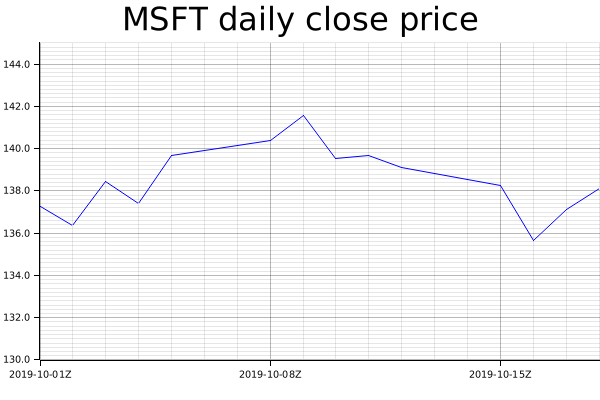
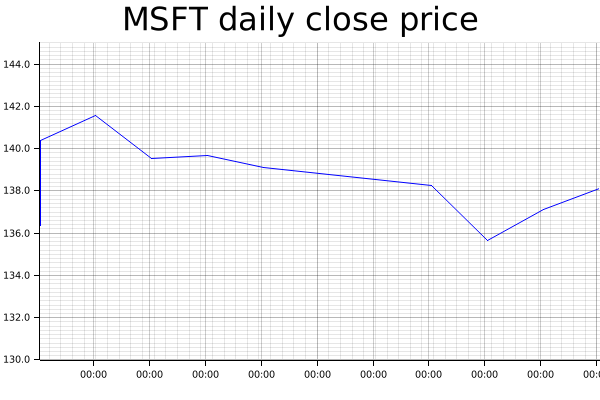
save

diff --git a/examples/plotters_5_x_label_formatter.rs b/examples/plotters_5_x_label_formatter.rs
@@ -1,0 +1,65 @@
+// FROM HERE
+// https://stackoverflow.com/questions/65937447/how-to-plot-a-series-with-a-date-on-the-x-axis-and-time-on-the-y-axis
+
+// #![feature(allocator_api)]
+
+use chrono::{Date, Duration, ParseError, NaiveTime};
+use chrono::offset::{Local, TimeZone};
+use plotters::prelude::*;
+
+fn parse_datetime(t: &str) -> Date<Local> {
+    Local
+        .datetime_from_str(&format!("{} 0:0", t), "%Y-%m-%d %H:%M")
+        .unwrap()
+        .date()
+}
+
+fn parse_time(t: &str) -> Result<Duration, ParseError> {
+    return match Local.datetime_from_str(&format!("2020-01-01 0:{}", t), "%Y-%m-%d %H:%M:%S%.f") {
+        Ok(date) => Ok(date.time().signed_duration_since(NaiveTime::from_hms(0, 0, 0))),
+        Err(e) => { println!("{}", e); Err(e) },
+    };
+}
+
+fn main() -> Result<(), Box<dyn std::error::Error>> {
+    let data = get_data();
+    let root = BitMapBackend::new("images/stock-example.png", (1024, 768)).into_drawing_area();
+    root.fill(&WHITE)?;
+
+    let (from_date, to_date) = (
+        parse_datetime(&data[0].0) - Duration::days(1),
+        parse_datetime(&data[data.len() - 1].0) + Duration::days(1),
+    );
+
+    let y_min = parse_time("9:30.0").unwrap();
+    let y_max = parse_time("13:00.0").unwrap();
+
+    let mut chart = ChartBuilder::on(&root)
+        .x_label_area_size(40)
+        .y_label_area_size(50)
+        .caption("Time", ("sans-serif", 30.0).into_font())
+        .build_cartesian_2d(from_date..to_date, y_min..y_max)?;
+
+    chart.configure_mesh()
+        .light_line_style(&WHITE)
+        .y_label_formatter(&|y| format!("{:02}:{:02}", y.num_minutes(), y.num_seconds() % 60))
+        .x_label_formatter(&|x| x.naive_local().to_string())
+        .draw()?;
+
+    chart.draw_series(
+        data.iter()
+            .map(|x| Circle::new((parse_datetime(x.0), parse_time(x.1).unwrap()), 5, BLUE.filled())),
+    )?;
+
+    Ok(())
+}
+
+fn get_data() -> Vec<(&'static str, &'static str, f32, f32, f32)> {
+    return vec![
+        ("2019-04-18", "10:11.5", 16.0, 121.3018, 123.3700),
+        ("2019-04-22", "10:52.2", 15.0, 122.5700, 123.7600),
+        ("2019-04-23", "12:23.5", 14.0, 123.8300, 125.4400),
+        ("2019-04-24", "10:15.0", 13.0, 124.5200, 125.0100),
+        ("2019-04-25", "10:43.9", 12.0, 128.8300, 129.1500),
+    ];
+}

diff --git a/examples/plotters_4_date_x_axis_second.rs b/examples/plotters_4_date_x_axis_second.rs
@@ -2,15 +2,26 @@
 // https://stackoverflow.com/questions/65975521/plotter-only-plot-the-time-not-the-date
 
 use plotters::prelude::*;
-use chrono::{Utc, TimeZone};
+// use chrono::{Utc, TimeZone};
+// use chrono::offset;
+
+use chrono::{Date, Duration, ParseError, NaiveTime};
+use chrono::offset::{Utc,Local, TimeZone};
+use chrono::Timelike;
+
+// chrono::offset::Utc::now()
 
 fn main() {
   let root_area = BitMapBackend::new("images/2.11.png", (600, 400))
     .into_drawing_area();
   root_area.fill(&WHITE).unwrap();
 
-  let start_date = Utc.ymd(2019, 10, 1);
-  let end_date = Utc.ymd(2019, 10, 18);
+  // let start_date = Utc.ymd(2019, 10, 1);
+  // let end_date = Utc.ymd(2019, 10, 18);
+  //let start_date = Utc.ymd(2019, 10, 1);
+  let start_date = Utc.with_ymd_and_hms(2019, 10, 8, 1, 0, 0).unwrap();
+  // let end_date = Utc.ymd(2019, 10, 18);
+  let end_date = Utc.with_ymd_and_hms(2019, 10, 18, 1, 0, 0).unwrap();
 
     let mut ctx = ChartBuilder::on(&root_area)
         .set_label_area_size(LabelAreaPosition::Left, 40)
@@ -19,13 +30,16 @@ fn main() {
         .build_cartesian_2d(start_date..end_date, 130.0..145.0)
         .unwrap();
 
-    ctx.configure_mesh().draw().unwrap();
+    ctx.configure_mesh()
+    .x_label_formatter(&|x| format!("{:02}:{:02}", x.hour(), x.minute()))
+    .draw().unwrap();
 
     ctx.draw_series(
         LineSeries::new(
             (0..).zip(DATA.iter()).map(|(idx, price)| {
                 let day = (idx / 5) * 7 + idx % 5 + 1;
-                let date = Utc.ymd(2019,10, day);
+                // let date = Utc.ymd(2019,10, day);
+                let date = Utc.with_ymd_and_hms(2019, 10, day, 1, 0, 0).unwrap();
                 (date, *price)
             }),
             &BLUE,
